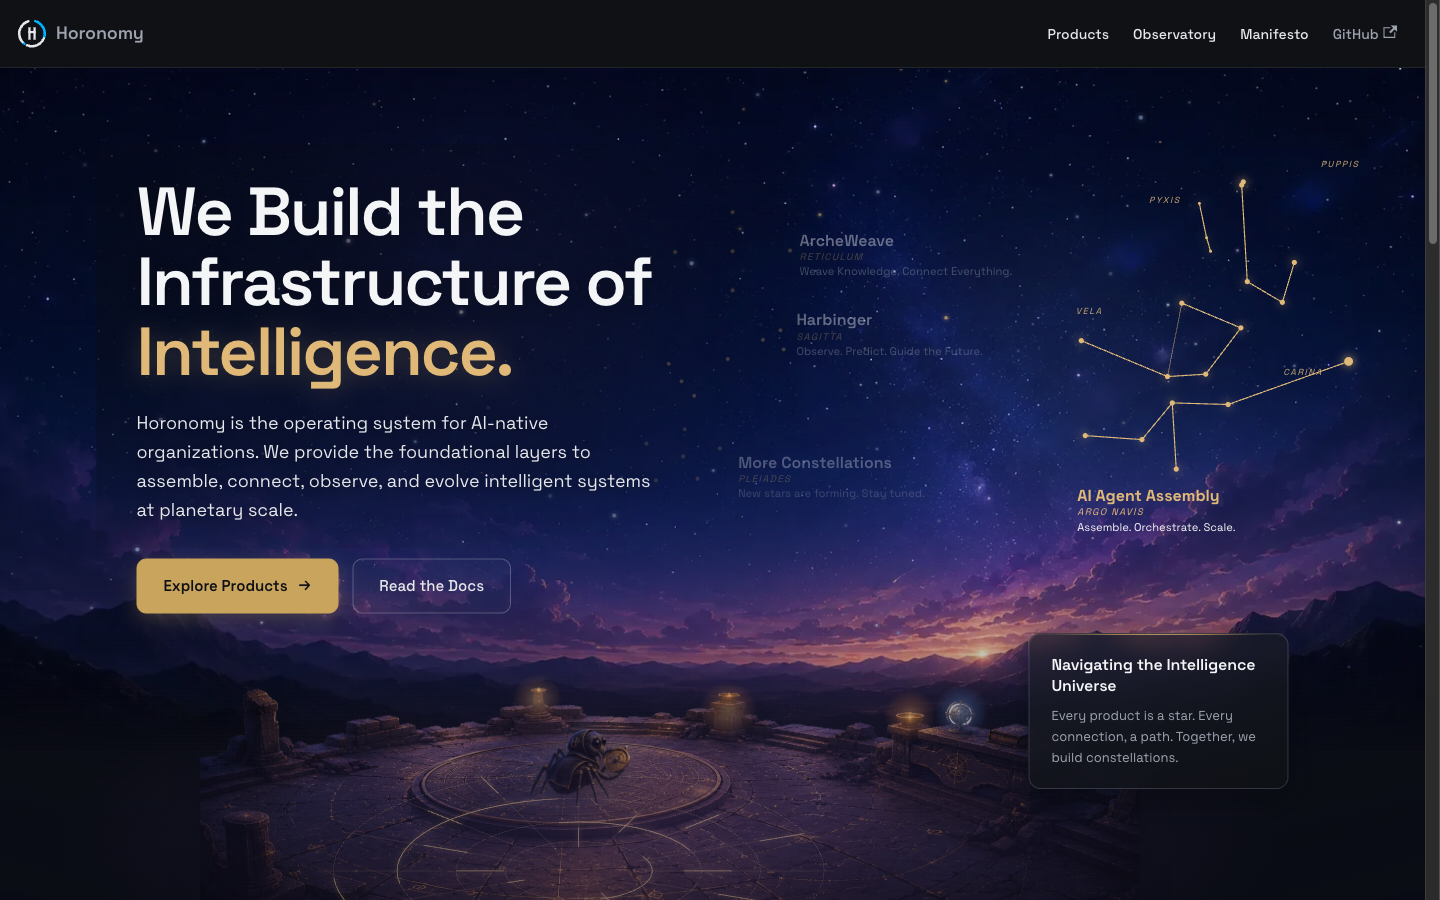
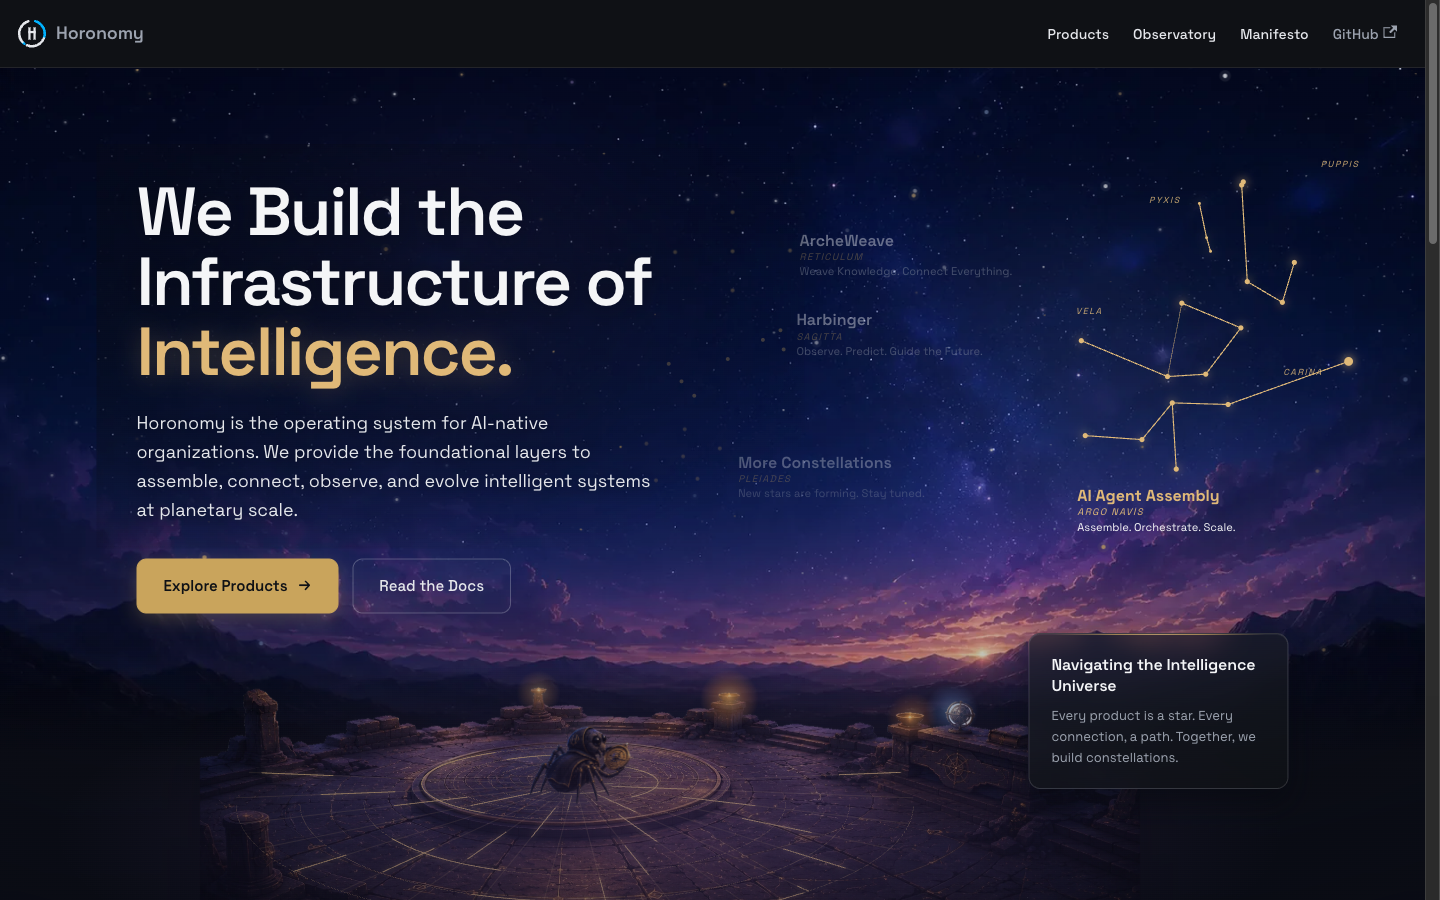
🐛 (hero): Trace the real baked paving — dais zodiac wheel + ground front-arcs + spokes
Pixel-measured the baked terrace magic-circle in ground.webp: flat dais wheel (centre ~764,207, k~0.24) plus a larger ground circle whose front arc spreads across the tiles, all in image-pixel space so the overlay lands on the real stone gaps. Replace the single round ellipse with the fine dais rings (full ellipses) + ground front-arcs (lower half only, so nothing draws over the sky) + radial spokes fanning across the front tiles.

diff --git a/src/components/HeroUniverse/ConstellationMap.tsx b/src/components/HeroUniverse/ConstellationMap.tsx
@@ -200,16 +200,42 @@ function Constellation({
  * baked paving. Foreshortened by FLOOR_K to sit flat in perspective. */
 const PRIMARY_ID = PRODUCTS.find((p) => p.tone === 'primary')?.id ?? null;
 
-/** Centre of the paving circle in ground-image pixels, and its perspective squash. */
-const FLOOR_CENTER: readonly [number, number] = [772, 386];
-const FLOOR_K = 0.4;
-/** Concentric ring radii (horizontal), inner → outer, in image pixels. */
-const RING_RX = [150, 250, 370, 500] as const;
-const SPOKE_COUNT = 16;
-const SPOKE_IN = 120;
-const SPOKE_OUT = 520;
+/* Baked terrace geometry, measured in the ground image's own pixel space
+ * (viewBox 1916x649). The overlay box replicates the ground raster 1:1, so these
+ * coordinates land on the real baked stone. Two concentric sets trace the actual
+ * paving: the fine zodiac wheel on the raised dais, and the larger magic circle
+ * spread across the front tiles. All geometry stays below the terrace's back
+ * edge (y ~= 130) so nothing is ever drawn over the sky. */
+const FLOOR_CX = 764;
 
-/** A flat-on-the-ground ellipse (perspective circle) as an SVG path. */
+/** Raised-dais zodiac wheel — full perspective ellipses. [cy, rx, ry] */
+const DAIS_RINGS: ReadonlyArray<readonly [number, number, number]> = [
+  [206, 92, 22],
+  [206, 170, 40],
+  [207, 248, 58],
+  [208, 312, 74],
+];
+
+/** Larger ground circle — only the FRONT (lower) arc is drawn; its back half is
+ * occluded by the dais and would otherwise fall above the terrace line. [cy, rx, ry] */
+const GROUND_ARCS: ReadonlyArray<readonly [number, number, number]> = [
+  [246, 430, 148],
+  [250, 560, 198],
+  [252, 690, 242],
+];
+
+/** Radial spokes fan from the circle centre across the front tiles only. */
+const SPOKE_CX = 764;
+const SPOKE_CY = 214;
+const SPOKE_INNER = 60;
+const SPOKE_OUT_CY = 252;
+const SPOKE_OUT_RX = 690;
+const SPOKE_OUT_RY = 242;
+const SPOKE_COUNT = 18;
+const SPOKE_A0 = -0.28; // ~ -16deg (front-right, just above the horizon plane)
+const SPOKE_A1 = Math.PI + 0.28; // ~196deg (front-left) — sweeps through the front
+
+/** A full flat-on-the-ground ellipse (perspective circle) as an SVG path. */
 function ellipse(cx: number, cy: number, rx: number, ry: number): string {
   return (
     `M${(cx - rx).toFixed(1)} ${cy.toFixed(1)}` +
@@ -218,20 +244,28 @@ function ellipse(cx: number, cy: number, rx: number, ry: number): string {
   );
 }
 
-/** Concentric rings + radial spokes tracing the baked terrace paving circle. */
+/** The lower (front) half-arc of an ellipse, left point sweeping under to right. */
+function bottomArc(cx: number, cy: number, rx: number, ry: number): string {
+  return (
+    `M${(cx - rx).toFixed(1)} ${cy.toFixed(1)}` +
+    `A${rx} ${ry} 0 0 0 ${(cx + rx).toFixed(1)} ${cy.toFixed(1)}`
+  );
+}
+
+/** Dais wheel + ground front-arcs + radial spokes, tracing the baked paving. */
 function buildFloor(): string[] {
-  const [cx, cy] = FLOOR_CENTER;
-  const rings = RING_RX.map((rx) => ellipse(cx, cy, rx, rx * FLOOR_K));
-  const spokes: string[] = [];
+  const paths: string[] = [];
+  for (const [cy, rx, ry] of DAIS_RINGS) paths.push(ellipse(FLOOR_CX, cy, rx, ry));
+  for (const [cy, rx, ry] of GROUND_ARCS) paths.push(bottomArc(FLOOR_CX, cy, rx, ry));
   for (let i = 0; i < SPOKE_COUNT; i++) {
-    const a = (i / SPOKE_COUNT) * Math.PI * 2;
-    const x1 = cx + SPOKE_IN * Math.cos(a);
-    const y1 = cy + SPOKE_IN * FLOOR_K * Math.sin(a);
-    const x2 = cx + SPOKE_OUT * Math.cos(a);
-    const y2 = cy + SPOKE_OUT * FLOOR_K * Math.sin(a);
-    spokes.push(`M${x1.toFixed(1)} ${y1.toFixed(1)}L${x2.toFixed(1)} ${y2.toFixed(1)}`);
+    const a = SPOKE_A0 + (SPOKE_A1 - SPOKE_A0) * (i / (SPOKE_COUNT - 1));
+    const x1 = SPOKE_CX + SPOKE_INNER * Math.cos(a);
+    const y1 = SPOKE_CY + SPOKE_INNER * 0.32 * Math.sin(a);
+    const x2 = SPOKE_CX + SPOKE_OUT_RX * Math.cos(a);
+    const y2 = SPOKE_OUT_CY + SPOKE_OUT_RY * Math.sin(a);
+    paths.push(`M${x1.toFixed(1)} ${y1.toFixed(1)}L${x2.toFixed(1)} ${y2.toFixed(1)}`);
   }
-  return [...rings, ...spokes];
+  return paths;
 }
 
 // Pure, deterministic, no browser globals → SSR-safe at module load.
